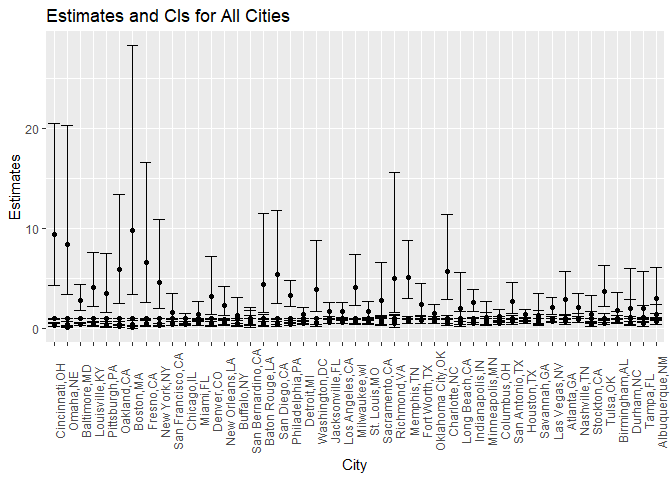
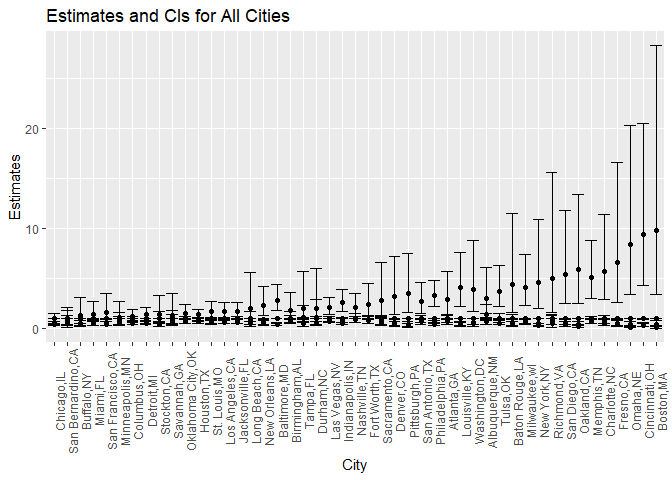
cleaning up details

diff --git a/hw6.md b/hw6.md
@@ -58,9 +58,10 @@ cities_glinmodel =
   mutate(conf.low = exp(estimate - (1.96 * std.error)), conf.high = exp(estimate + (1.96 * std.error))) 
 cities_plot =
   cities_glinmodel %>% 
-  ggplot(aes(fct_reorder(city_state, OR), OR)) +
-  geom_point() +
+  mutate(city_state = reorder(city_state, OR)) %>%
+  ggplot(aes(x = city_state, y = OR)) +
   geom_errorbar(aes(ymin = conf.low, ymax = conf.high)) +
+  geom_point() +
   labs(
     title = "Estimates and CIs for All Cities",
     x = "City",
